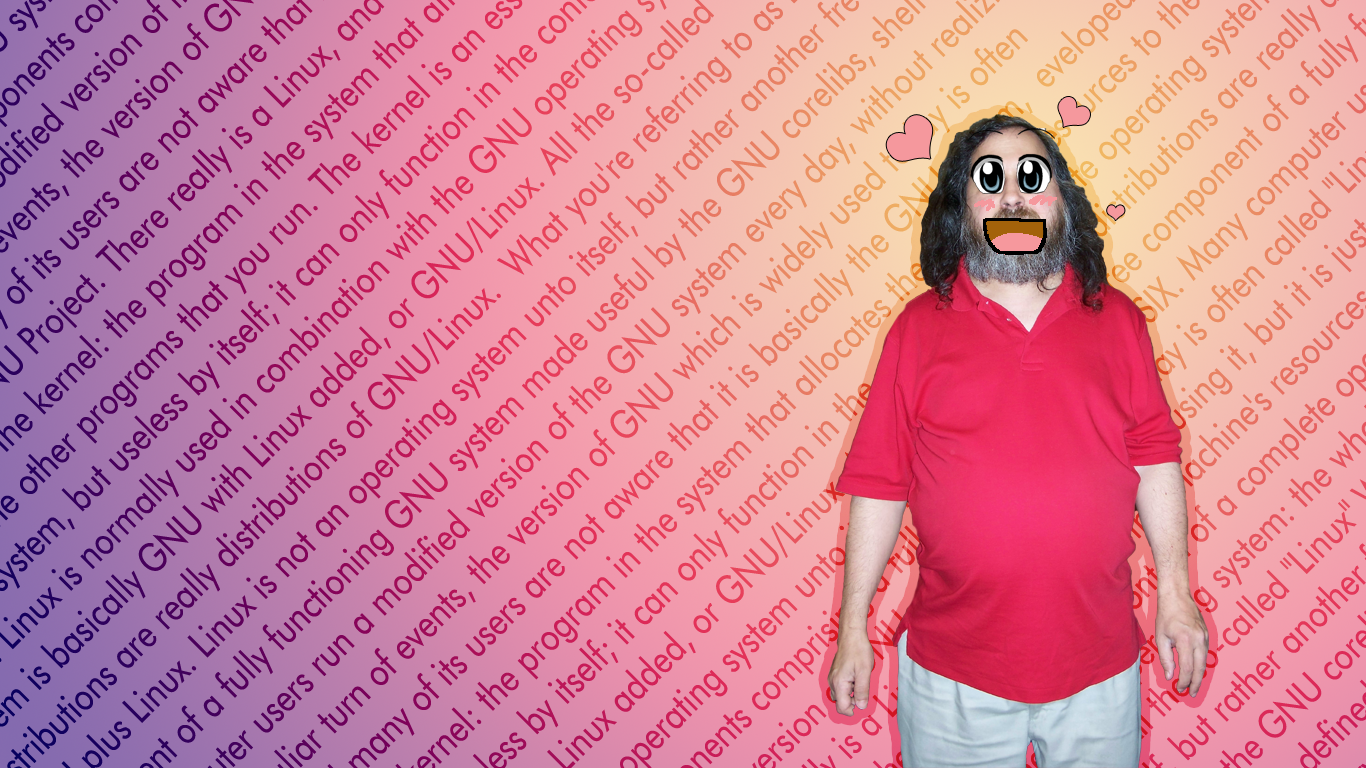
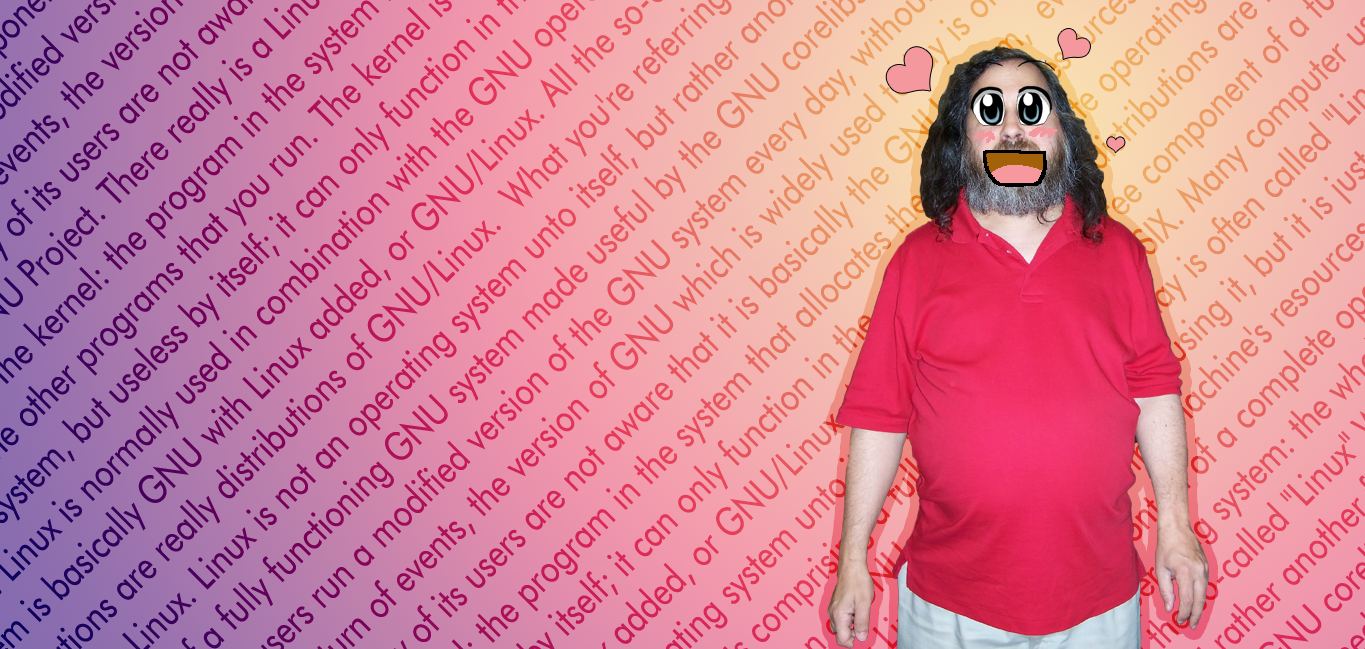
Changes size of image

diff --git a/css/main.css b/css/main.css
@@ -1,7 +1,7 @@
 .intro {
   display: table;
   width: 100%;
-  height: 1000px;
+  height: 800px;
   padding: 100px 0;
   text-align: center;
   color: #fff;
